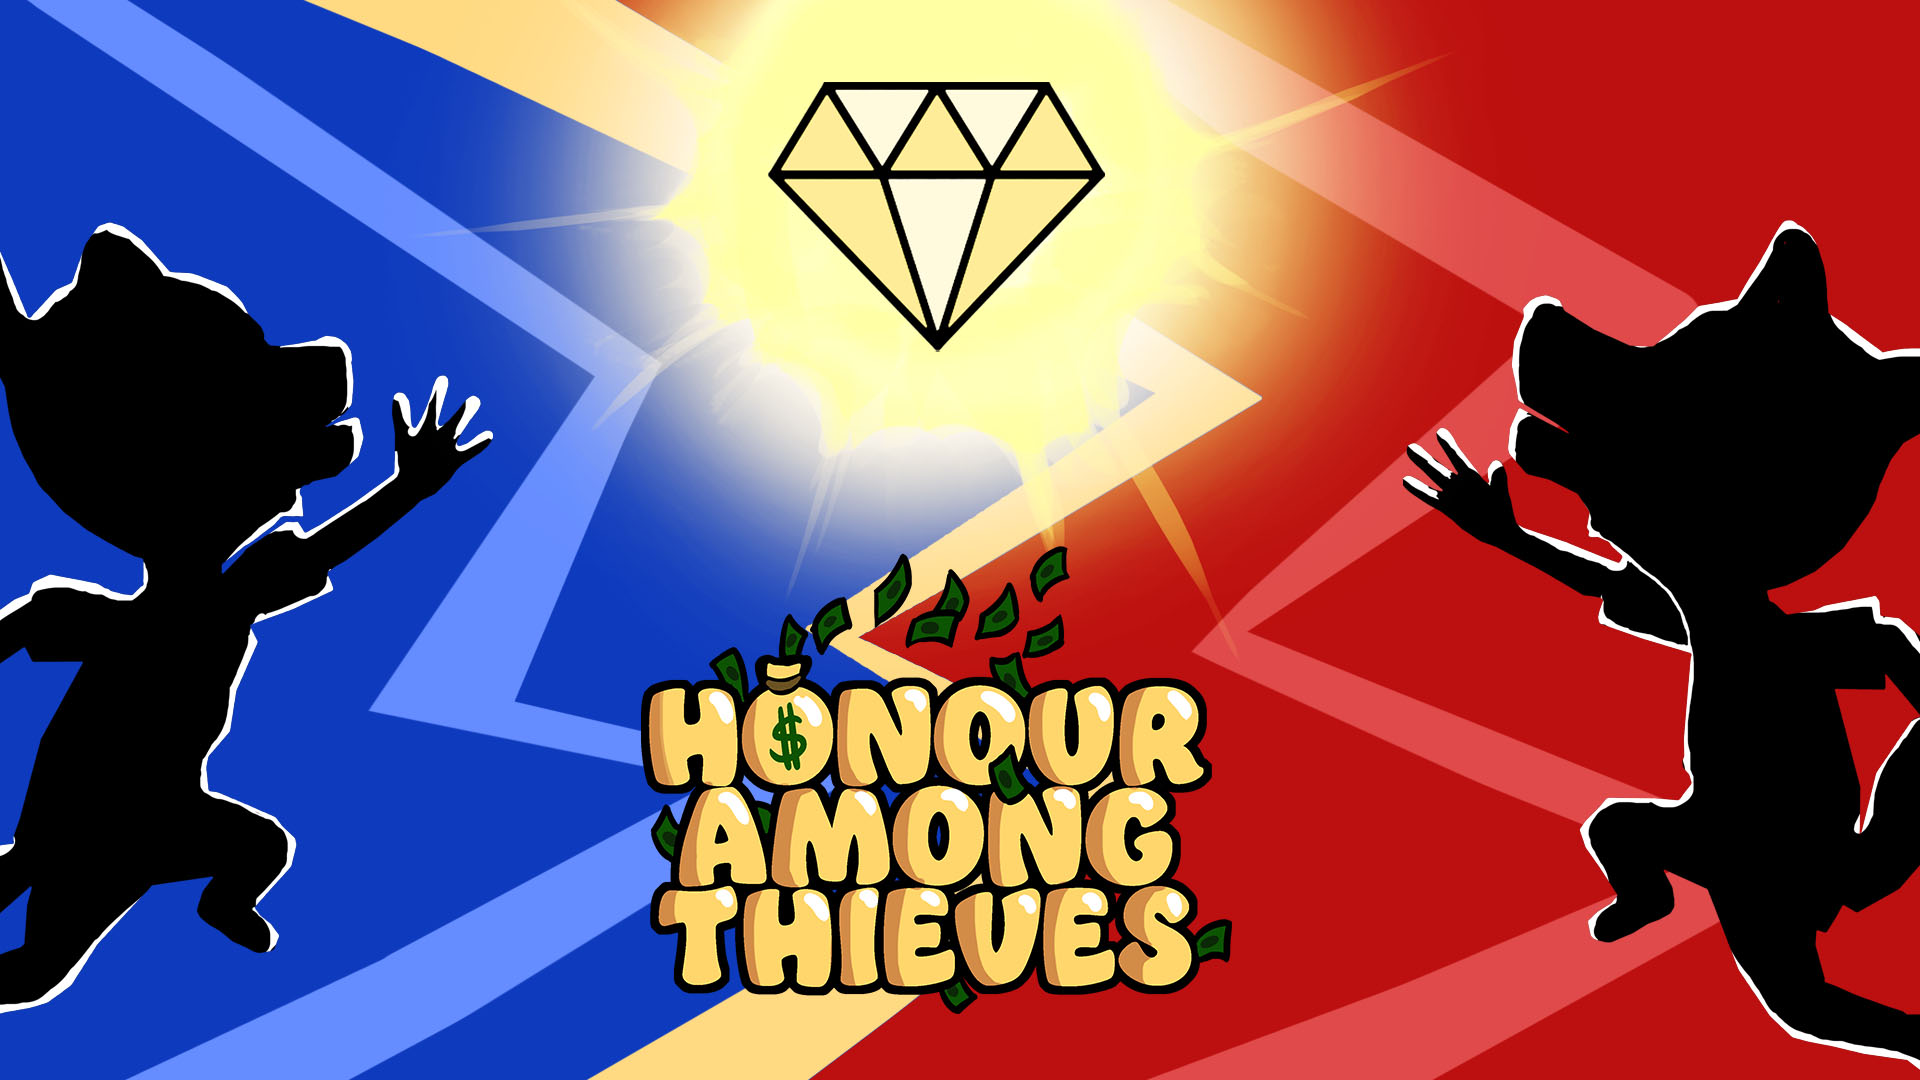
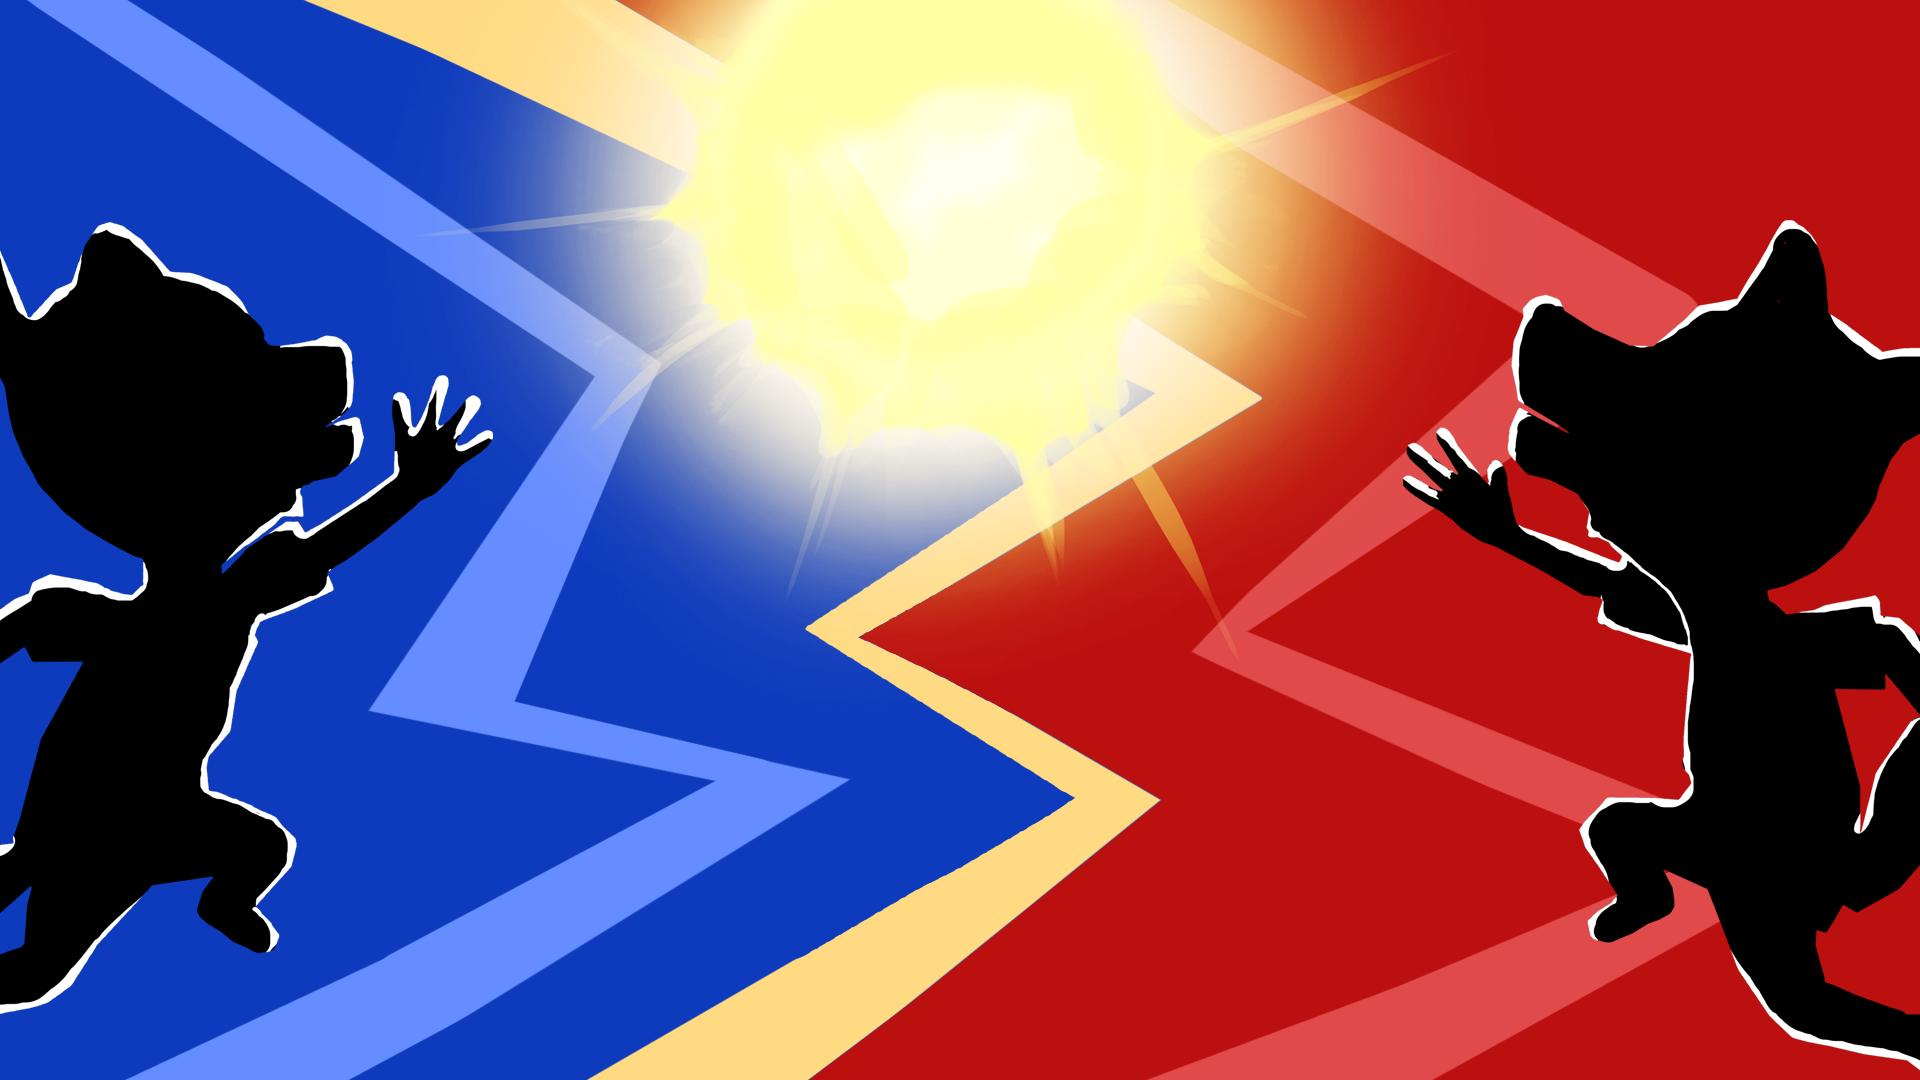
Removed title and diamond from HAT picture. Added some contribution text. General symbol resizing.

diff --git a/style.css b/style.css
@@ -22,8 +22,8 @@ html, body {
 }
 .carousel-control-icon a span
 {
-  width: 30px;
-  height: 30px;
+  width: 50px;
+  height: 50px;
   filter:drop-shadow(3px 3px 1px #000);
 }
 .carousel-caption h1 {
@@ -47,6 +47,7 @@ br {
 .project-video iframe {
   position: absolute;
   top: 45%;
+  bottom: 55%;
   left: 25%;
   width: 50%;
   height: 50%;
@@ -81,13 +82,27 @@ br {
 .contribution .jumbotron {
   background-color: rgba(25, 25, 25, 0.75);
   filter: drop-shadow(2px 2px 2px #000);
-  padding: 2%;
+  padding: 1.5%;
   outline: 2px solid #FFF;
 }
 .contribution p {
   color: #FFF;
   width: 100%;
   text-align: center;
+  font-size: 75%;
+  margin: 0;
+}
+.throw-thyself-contribution:after {
+  content: 'Throw Thyself is a local multiplayer physics-based battleground arena. I worked on this project as my primary 2nd year major project over the course of 4 months. Main responsibilities included creating and implementing a fluent local multiplayer system and handling fast paced physics interactions.'
+}
+.honour-among-thieves-contribution:after {
+  content: ''
+}
+.marvelous-murgo-contribution:after {
+  content: ''
+}
+.ultraball-contribution:after {
+  content: ''
 }
 .about-me .jumbotron {
   margin: 0;
@@ -159,9 +174,10 @@ hr.light-100 {
   margin-bottom: 1rem;
 }
 hr.dark-100 {
-  border-top: 1px solid #181818;
+  border-top: 1px solid #363636;
   width: 100%;
   margin: 0;
+  margin-top: 2%;
 }
 
 
@@ -194,8 +210,8 @@ hr.dark-100 {
   .carousel-logo a {
     margin: 5%;
   }
-  .contribution {
-    font-size: 75%;
+  .contribution p {
+    font-size: 60%;
   }
   .skills-logo {
     font-size: 2em;
@@ -236,8 +252,24 @@ hr.dark-100 {
   .carousel-logo a {
     margin: 2.5%;
   }
-  .contribution {
-    font-size: 60%;
+  .contribution p {
+    font-size: 55%;
+  }
+  .carousel-control-icon a span {
+    width: 40px;
+    height: 40px;
+  }
+  .throw-thyself-contribution:after {
+    content: 'My primary 2nd year major project. 4 Month Duration. Main responsibilities included creating and implementing a fluent local multiplayer system and handling fast paced physics interactions.'
+  }
+  .honour-among-thieves-contribution:after {
+    content: 'My secondary 2nd year major project. 4 Month Duration. Main responsibilities included creating tools for the developers to use and.'
+  }
+  .marvelous-murgo-contribution:after {
+    content: ''
+  }
+  .ultraball-contribution:after {
+    content: ''
   }
   .skills-logo {
     font-size: 1.5em;
@@ -272,16 +304,22 @@ hr.dark-100 {
   }
   .contribution .jumbotron {
     padding: 1%;
-    padding-bottom: 0%;
     margin: 5%;
-    margin-bottom: 20%;
+    margin-bottom: 10%;
     outline-width: 1px;
+  }
+  .contribution p {
+    font-size: 50%;
+  }
+  .carousel-control-icon a span {
+    width: 30px;
+    height: 30px;
   }
   .carousel-indicators {
     display: none;
   }
   .skills-logo {
-    font-size: 1em;
+    font-size: 1.5em;
   }
   .skills-text {
     font-size: 1em;

diff --git a/index.html b/index.html
@@ -21,6 +21,7 @@
 	<li data-target="#slides" data-slide-to="0" class="active"></li>
 	<li data-target="#slides" data-slide-to="1"></li>
 	<li data-target="#slides" data-slide-to="2"></li>
+	<li data-target="#slides" data-slide-to="3"></li>
 </ul>
 
 <div class="carousel-inner">
@@ -43,7 +44,7 @@
 			</div>
 			<div class="contribution">
 				<div class="jumbotron">
-					<p>This is text describing my contribution to the Throw Thyself project.</p>
+					<p class="throw-thyself-contribution"></p>
 				</div>
 			</div>
 		</div>
@@ -67,7 +68,7 @@
 			</div>
 			<div class="contribution">
 				<div class="jumbotron">
-					<p>This is text describing my contribution to the Honour Among Thieves project.</p>
+					<p class="honour-among-thieves-contribution"></p>
 				</div>
 			</div>
 		</div>
@@ -84,7 +85,7 @@
 			<div class="contribution">
 				<div class="jumbotron">
 					<div class="jumbotron-background"></div>
-					<p>This is text describing my contribution to the Marvelous Murgo project.</p>
+					<p class="marvelous-murgo-contribution"></p>
 				</div>
 			</div>
 		</div>
@@ -108,7 +109,7 @@
 			</div>
 			<div class="contribution">
 				<div class="jumbotron">
-					<p>This is text describing my contribution to the Ultraball project.</p>
+					<p class="ultraball-contribution"></p>
 				</div>
 			</div>
 		</div>
